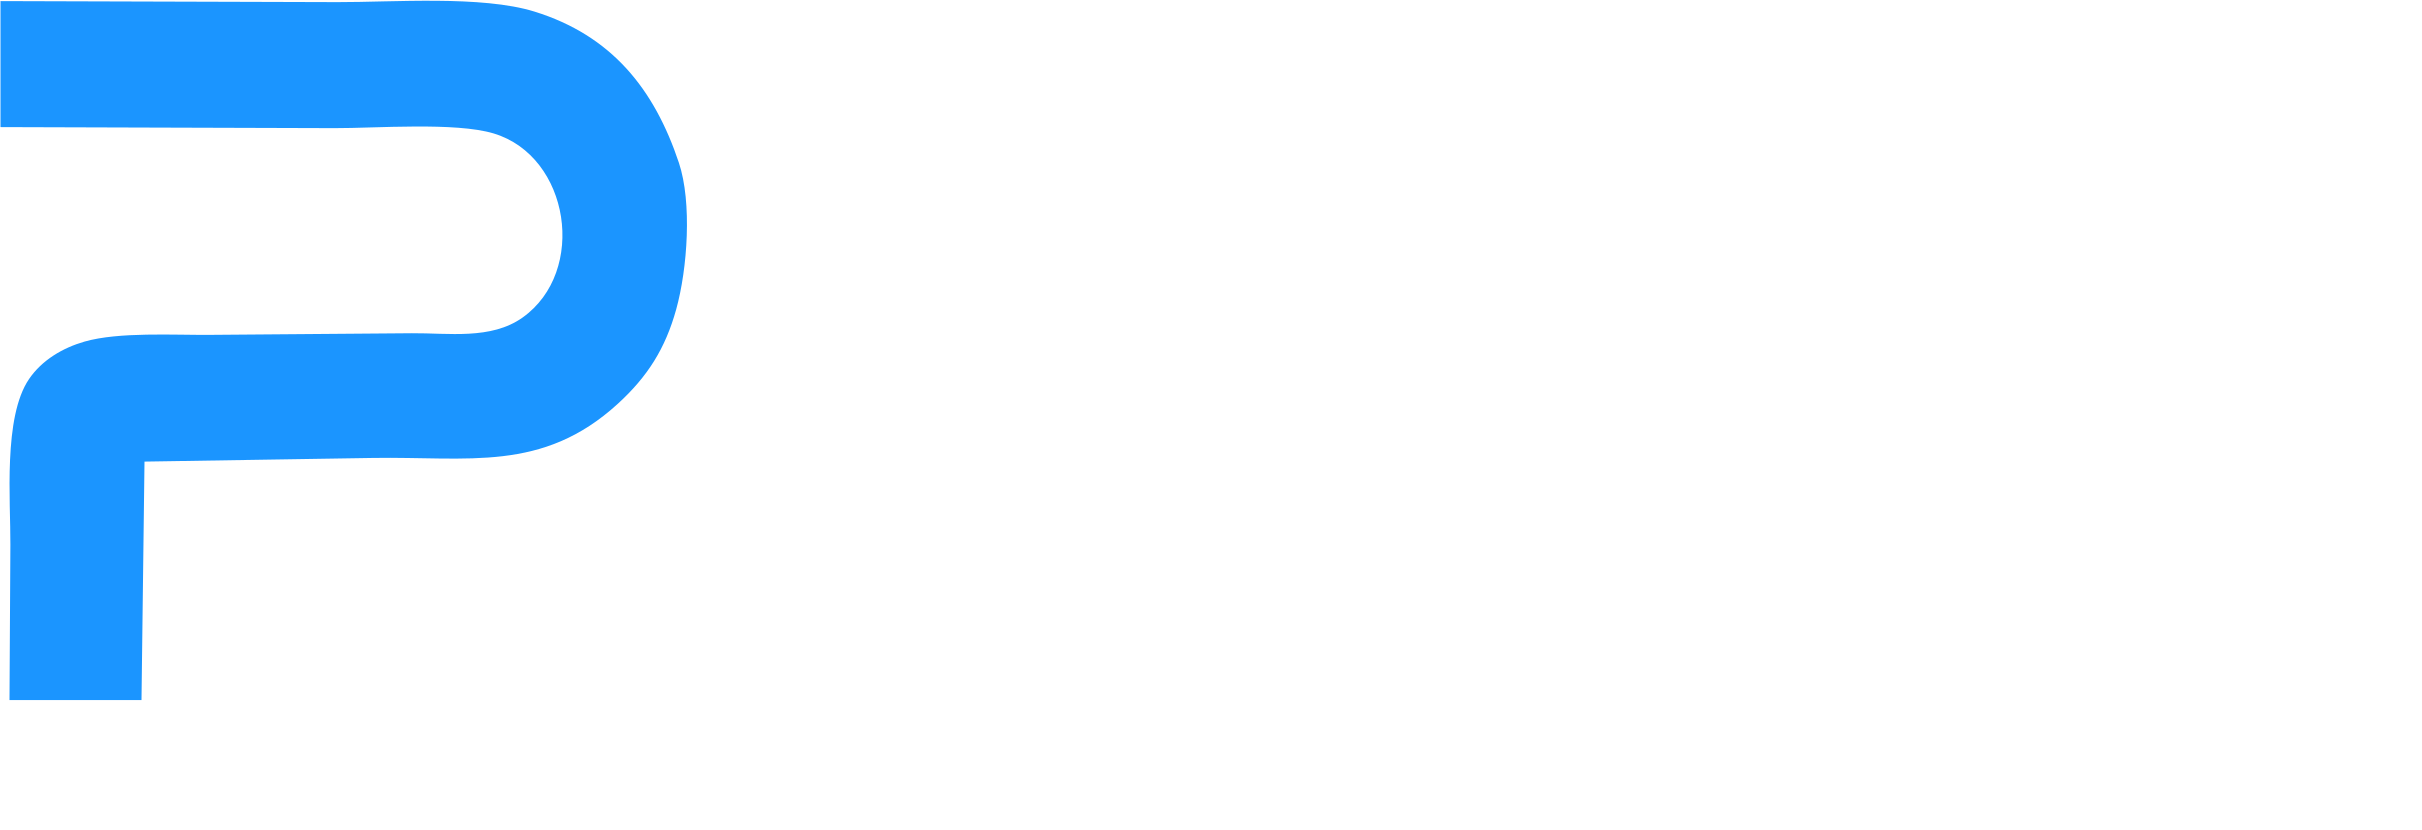
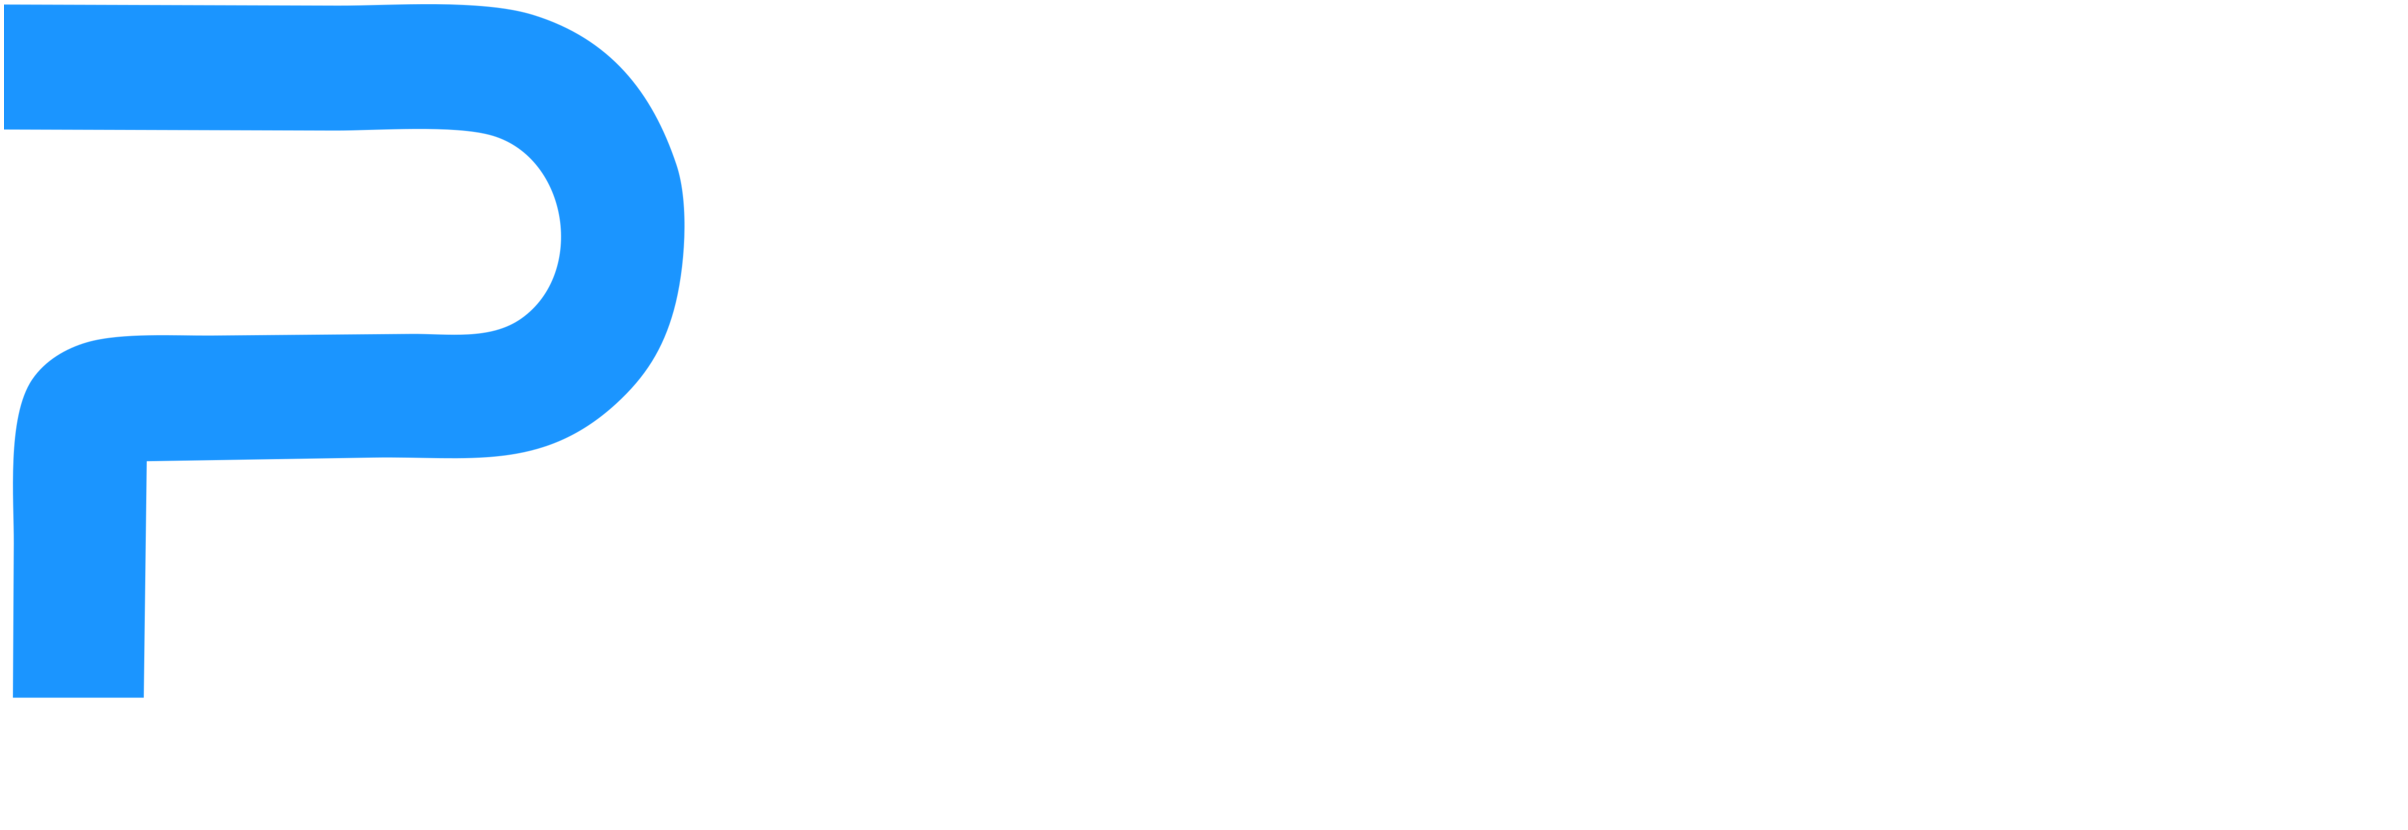
Regenerate website wordmark from SVG with smoother raster edges

Changed region(s): [[0.0, 0.1506, 0.218, 0.1807], [0.0, 0.0, 0.218, 0.0301], [0.0, 0.8133, 0.0623, 0.8434]]

diff --git a/website/index.html b/website/index.html
@@ -25,9 +25,9 @@
       <a href="#" aria-label="Pngr home"
         ><img
           class="nav-logo"
-          src="assets/branding/wordmark.png"
+          src="assets/branding/wordmark.png?v=2"
           alt="Pngr"
-          width="2422"
+          width="2408"
           height="830"
       /></a>
       <nav aria-label="Main navigation">
@@ -46,9 +46,9 @@
           </p>
           <img
             class="hero-logo"
-            src="assets/branding/wordmark.png"
+            src="assets/branding/wordmark.png?v=2"
             alt="Pngr"
-            width="2422"
+            width="2408"
             height="830"
           />
           <h1 id="hero-title">See your network clearly.</h1>
@@ -251,9 +251,9 @@
       <a href="#" aria-label="Pngr home"
         ><img
           class="nav-logo"
-          src="assets/branding/wordmark.png"
+          src="assets/branding/wordmark.png?v=2"
           alt="Pngr"
-          width="2422"
+          width="2408"
           height="830"
       /></a>
       <p>Network diagnostics. A little clearer.</p>
